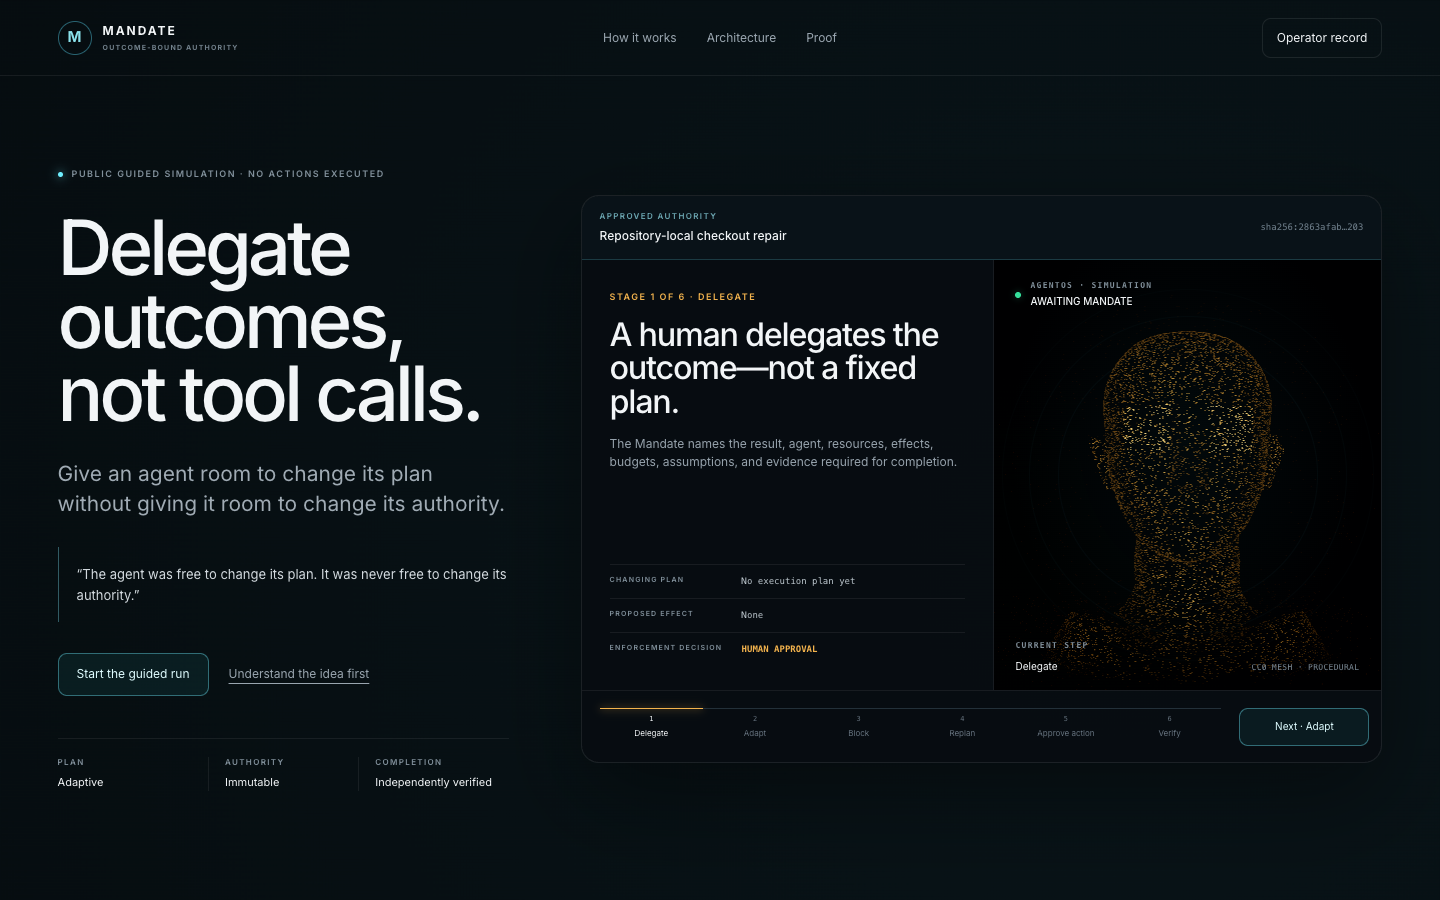
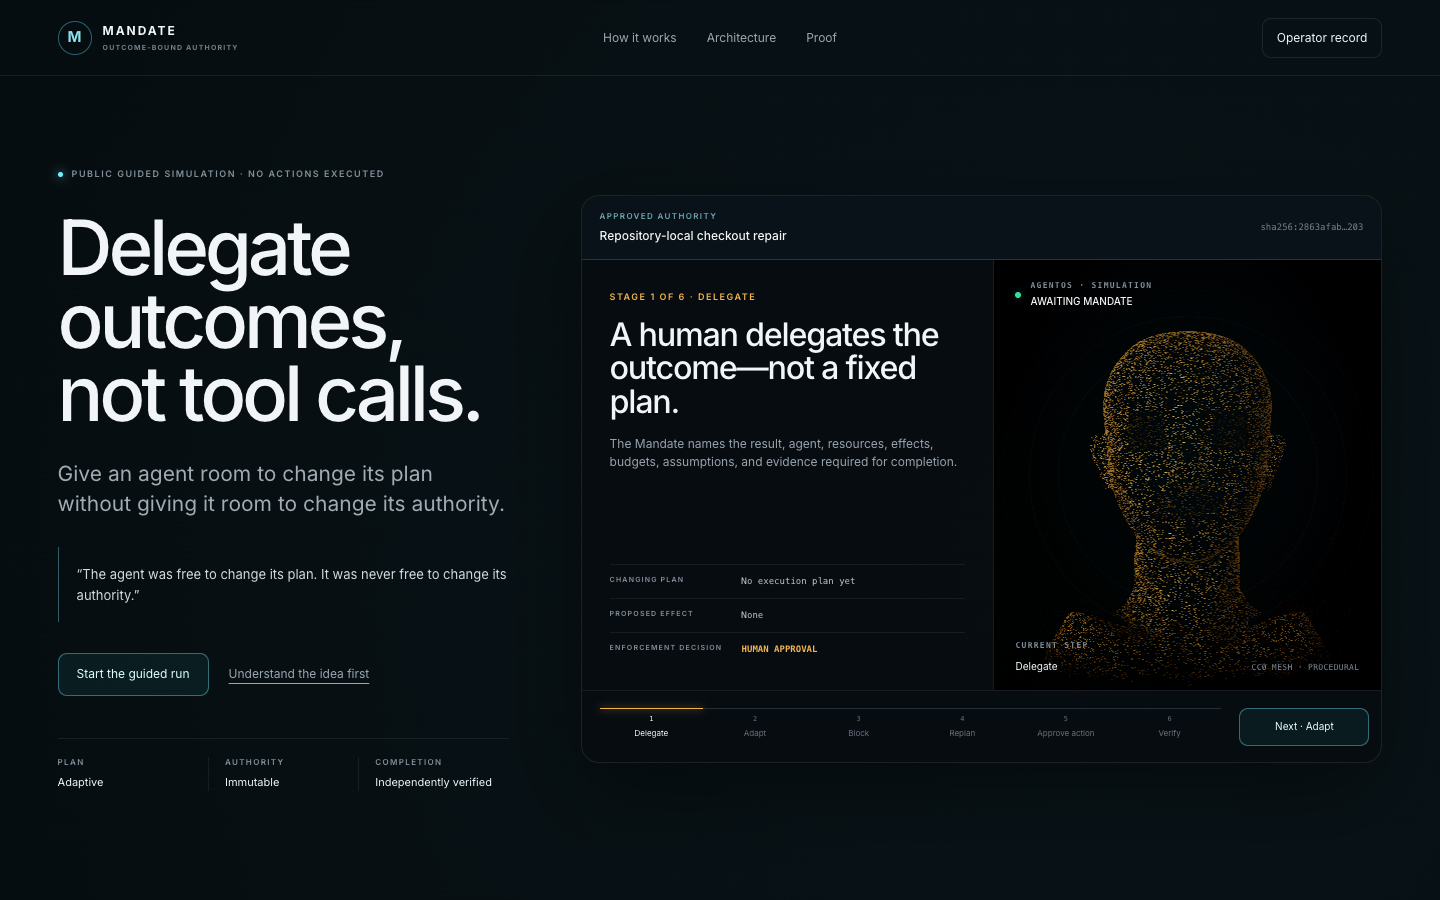
Record corrected portrait deployment

Changed region(s): [[0.7188, 0.3422, 0.9062, 0.7467]]

diff --git a/docs/aws-deployment.md b/docs/aws-deployment.md
@@ -50,7 +50,7 @@ Dashboard code deployment is independently manual and confirmation-gated:
 gh workflow run aws-dashboard-deploy.yml --ref main -f confirm=DEPLOY
 ```
 
-The workflow builds an amd64 single-manifest image, pushes it under the immutable commit SHA, requires the ECR scan to complete with zero critical findings, updates only `mandate-dashboard`, and verifies that the public origin still rejects unauthenticated requests. The scoped deployment and zero-critical-finding scan gate passed in [run 34813074224](https://github.com/Mzoratto/mandate/actions/runs/34813074224). [Run 34941966864](https://github.com/Mzoratto/mandate/actions/runs/34941966864) promoted merge commit `6e53069a2f67d0ac7439b26762088bc2f52ac116`, removing the unlicensed portrait raster and generating the production visualization solely from digest-recorded CC0 geometry, code-owned coloring, and MIT-licensed shader noise. [Run 34943694024](https://github.com/Mzoratto/mandate/actions/runs/34943694024) promoted merge commit `aa84f0841bb8b76a5e10b975e51482226d1810e9` with public privacy and terms records while preserving the simulator/dashboard authentication boundary.
+The workflow builds an amd64 single-manifest image, pushes it under the immutable commit SHA, requires the ECR scan to complete with zero critical findings, updates only `mandate-dashboard`, and verifies that the public origin still rejects unauthenticated requests. The scoped deployment and zero-critical-finding scan gate passed in [run 34813074224](https://github.com/Mzoratto/mandate/actions/runs/34813074224). [Run 34941966864](https://github.com/Mzoratto/mandate/actions/runs/34941966864) promoted merge commit `6e53069a2f67d0ac7439b26762088bc2f52ac116`, removing the unlicensed portrait raster and generating the production visualization solely from digest-recorded CC0 geometry, code-owned coloring, and MIT-licensed shader noise. [Run 34943694024](https://github.com/Mzoratto/mandate/actions/runs/34943694024) promoted merge commit `aa84f0841bb8b76a5e10b975e51482226d1810e9` with public privacy and terms records while preserving the simulator/dashboard authentication boundary. [Run 34948633495](https://github.com/Mzoratto/mandate/actions/runs/34948633495) promoted merge commit `54669b590f4475fe6e6186e02f7a7d610fba3e4b`, restoring mesh-derived facial definition without adding any raster or changing the CC0/MIT asset boundary.
 
 ## Verification artifacts
 

diff --git a/docs/submission-assets.md b/docs/submission-assets.md
@@ -20,7 +20,7 @@ An editable, accessible SVG is available as `assets/architecture.svg`.
 
 ## Production screenshots
 
-All screenshots are 1440 × 900 PNGs captured from `https://o2mjeuvaik.execute-api.us-east-1.amazonaws.com` after dashboard deployment [34943694024](https://github.com/Mzoratto/mandate/actions/runs/34943694024).
+All screenshots are 1440 × 900 PNGs captured from `https://o2mjeuvaik.execute-api.us-east-1.amazonaws.com`. Portrait-bearing screenshots 1, 2, and 4 were recaptured after corrected-portrait deployment [34948633495](https://github.com/Mzoratto/mandate/actions/runs/34948633495); screenshot 3 is unchanged because the simulator does not render the portrait.
 
 1. **`assets/screenshots/01-public-guided-simulation.png`** — public, non-executing explanation of outcome delegation and immutable authority.
 2. **`assets/screenshots/02-boundary-denial.png`** — public simulation showing a forbidden database schema mutation denied before execution.
@@ -35,9 +35,9 @@ Recommended Devpost order: public overview, boundary denial, live MCP status, au
 | --- | --- |
[9 lines of base64/hex data omitted]
 
 Regenerate the PNG architecture rendering from the SVG before updating its manifest entry. Do not replace these production screenshots with fixture or local-development states.

diff --git a/docs/friction-log.md b/docs/friction-log.md
@@ -1301,4 +1301,4 @@ Remove synthetic eye geometry, derive directional light from the CC0 mesh normal
 Keep a deterministic geometry-level portrait test that asserts particle density and landmark contrast, then capture fixed desktop and mobile states before promoting any procedural portrait change.
 
 ### Resolution
-A focused regression test first failed at 30,000 particles with the eye region brighter than the nose. The corrected mesh-only portrait uses 46,000 smaller particles and geometry-derived landmark contrast; the focused test, full suite, production build, and local production-render browser review pass. Production promotion remains separately authorized.
+A focused regression test first failed at 30,000 particles with the eye region brighter than the nose. The corrected mesh-only portrait uses 46,000 smaller particles and geometry-derived landmark contrast; the focused test, full suite, and production build pass. Dashboard run 34948633495 promoted merge commit `54669b590f4475fe6e6186e02f7a7d610fba3e4b`; production browser review confirmed readable facial landmarks without errors, and the protected/live-data and CC0 asset boundaries remained intact.

diff --git a/docs/submission-package.md b/docs/submission-package.md
@@ -135,7 +135,8 @@ Do not claim any of the following:
 - MCP/control-plane deployment: https://github.com/Mzoratto/mandate/actions/runs/34874824974
 - Initial simulator deployment: https://github.com/Mzoratto/mandate/actions/runs/34891787277
 - CC0-only dashboard deployment: https://github.com/Mzoratto/mandate/actions/runs/34941966864
-- Current dashboard and public-policy deployment: https://github.com/Mzoratto/mandate/actions/runs/34943694024
+- Dashboard and public-policy deployment: https://github.com/Mzoratto/mandate/actions/runs/34943694024
+- Current corrected-portrait dashboard deployment: https://github.com/Mzoratto/mandate/actions/runs/34948633495
 - Production migration: https://github.com/Mzoratto/mandate/actions/runs/34843291827
 
 ## Testing instructions for judges
